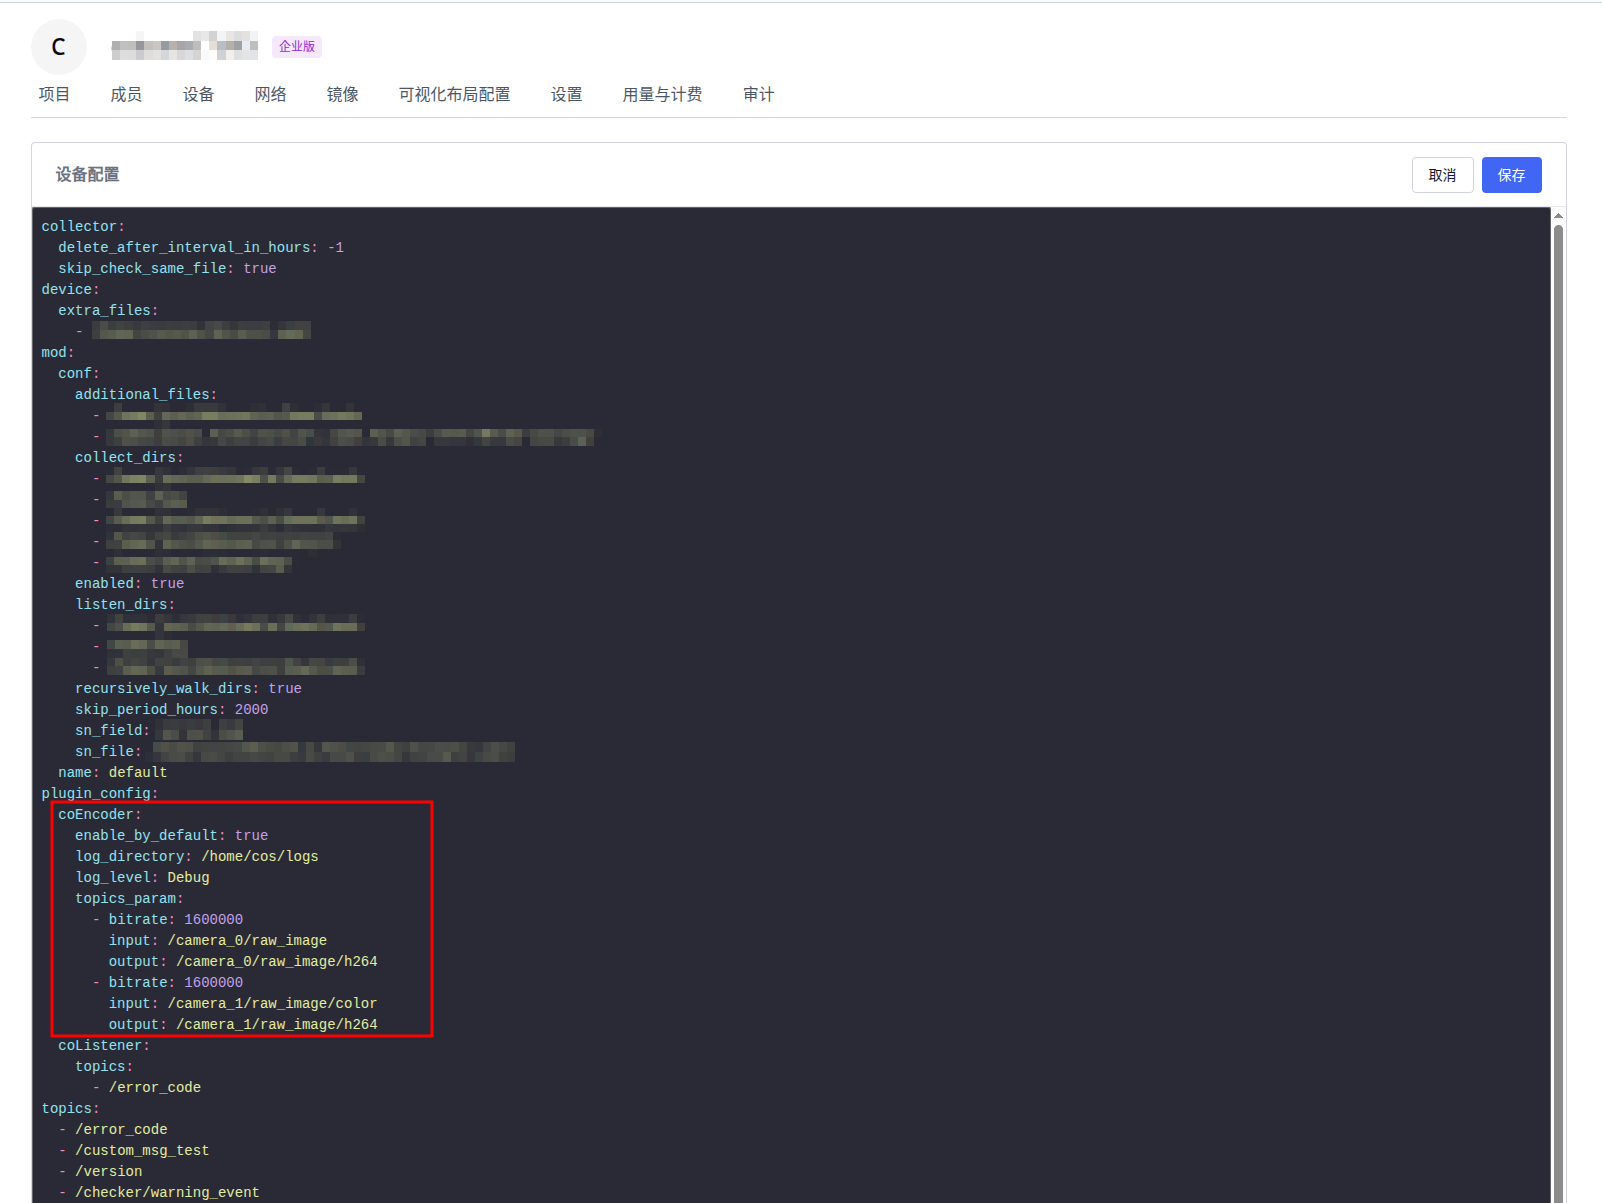
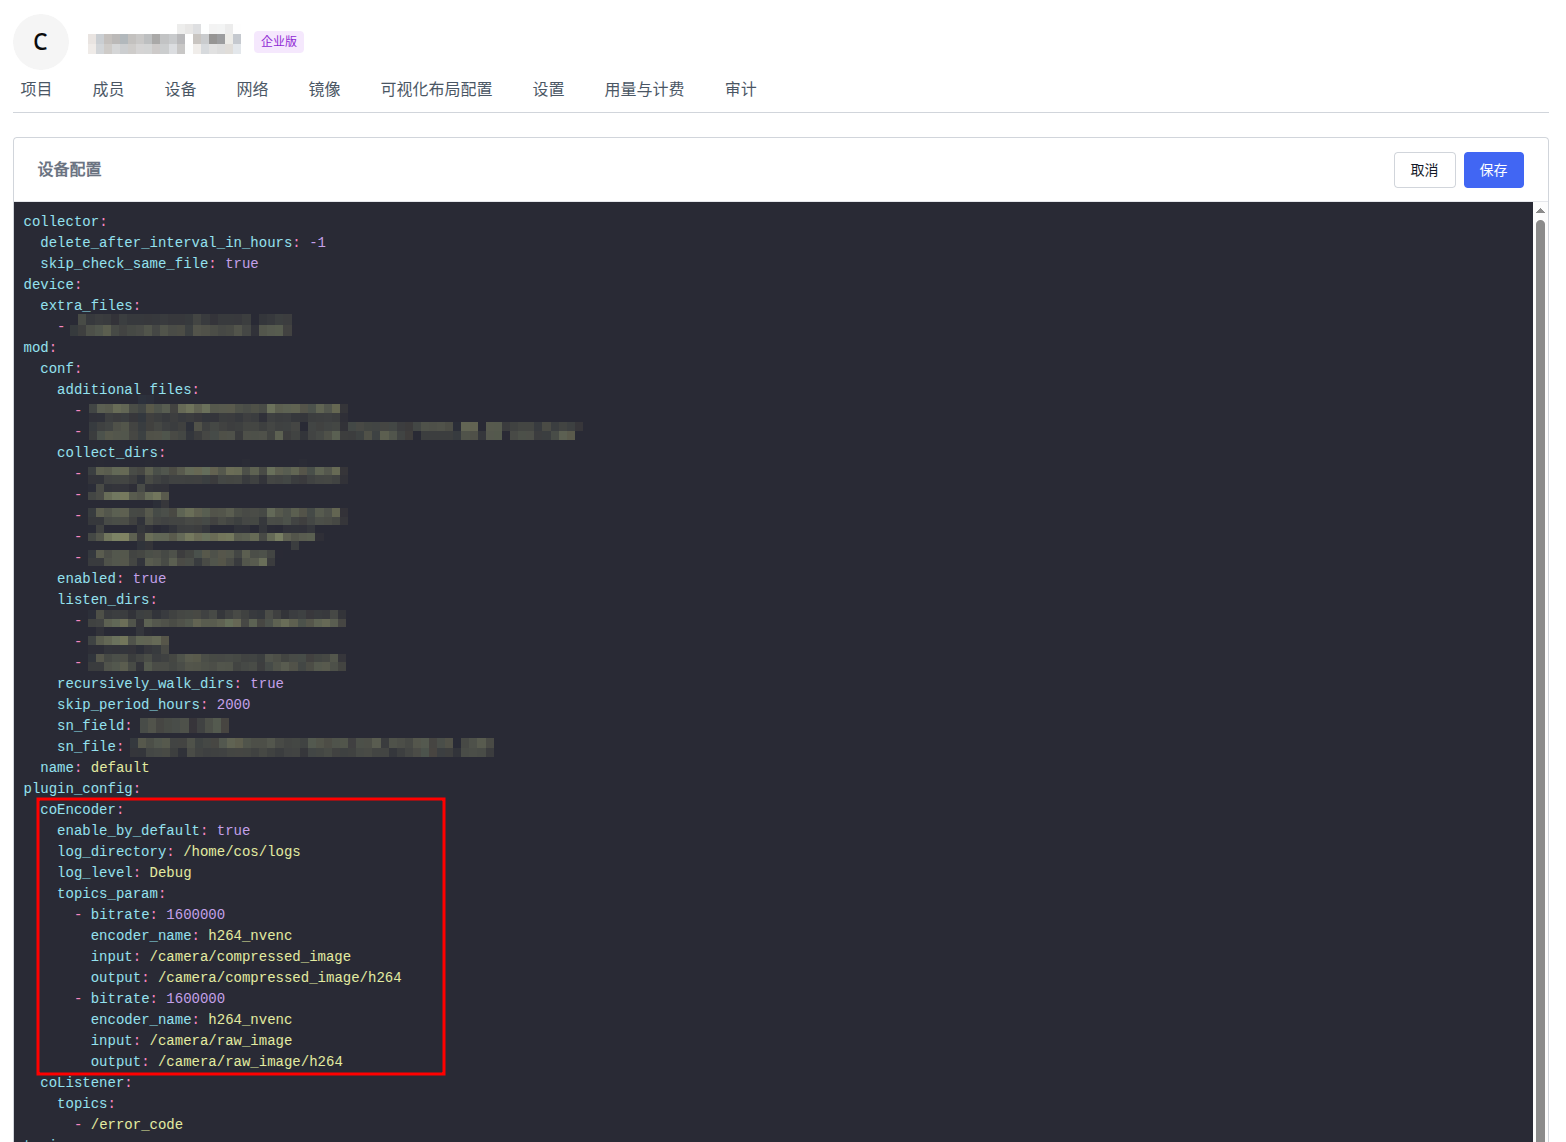
update README

Changed region(s): [[0.0, 0.0, 1.0, 1.0]]

diff --git a/README.md b/README.md
@@ -19,7 +19,7 @@ coencoder currently supports encoding using GPUs, currently supports the followi
 
 ## Configuration
 
-If the system environment variable contains `HOME`, the config file is located at `$HOME/.config/coencoder/config.json`, otherwise, the config file is located at `/tmp/coencoder/config/config.json`
+If the system environment variable contains `HOME`, the config file is located at `$HOME/.config/coencoder/config.json`, otherwise, the config file is located at `/tmp/coencoder/config/config.json`. If you start coEncoder using `rosrun` (or `ros2 run`), you can use --config-file to specify the config file path.
 
 ```Json
 {
@@ -47,7 +47,7 @@ If the system environment variable contains `HOME`, the config file is located a
 * **log_level**: Log level, possible values: Debug / Info / Warn / Error
 * **topics_param**: Array type, contains 3 fields
   * **bitrate**: Output bitrate
-  * **encoder_name**: encoder name, `h264_nvenc`, `h264_qsv`, `h264_amf`, `h264_vaapi` was supported, and also, you can use `libx264` to encode frames by CPU
+  * **encoder_name**: Encoder name, supports `h264_nvenc`, `h264_qsv`, `h264_amf`, `h264_vaapi`, and you can also use `libx264` to encode frames by CPU. If this field is missing in the configuration, `libx264` will be used for encoding
   * **input**: Input topic name
   * **output**: Output topic name
 
@@ -107,6 +107,8 @@ If the system environment variable contains `HOME`, the config file is located a
   source /opt/ros/{ros destro}/setup.bash
   
   roslaunch coencoder coencoder.launch
+  # You can also use `rosrun` to start the node
+  rosrun coencoder coencoder --config-file {your_config_file_path}
   ```
   
 - ROS2
@@ -117,4 +119,6 @@ If the system environment variable contains `HOME`, the config file is located a
   source /opt/ros/{ros destro}/setup.bash
   
   ros2 launch coencoder coencoder_launch.xml
+  # You can also use `ros2 run` to start the node  
+  ros2 run coencoder coencoder -- --config-file {your_config_file_path}
   ```

diff --git a/README_cn.md b/README_cn.md
@@ -19,7 +19,7 @@ coencoder目前支持使用GPU进行编码，目前支持以下编码器：
 
 ## 配置
 
-如果系统环境变量包含`HOME`，配置文件位于`$HOME/.config/coencoder/config.json`，否则配置文件位于`/tmp/coencoder/config/config.json`
+如果系统环境变量包含`HOME`，配置文件位于`$HOME/.config/coencoder/config.json`，否则配置文件位于`/tmp/coencoder/config/config.json`. 如果使用 `rosrun` (or `ros2 run`) 启动coEncoder, 可使用 --config-file 指定配置文件路径
 
 ```Json
 {
@@ -47,7 +47,7 @@ coencoder目前支持使用GPU进行编码，目前支持以下编码器：
 * **log_level:** 日志级别，可选值：Debug / Info / Warn / Error
 * **topics_param:** 数组类型，包含3个字段
   * **bitrate:** 输出码率
-  * **encoder_name:** 编码器名称，支持`h264_nvenc`、`h264_qsv`、`h264_amf`、`h264_vaapi`，同时也可以使用`libx264`通过CPU编码帧
+  * **encoder_name:** 编码器名称，支持`h264_nvenc`、`h264_qsv`、`h264_amf`、`h264_vaapi`，同时也可以使用`libx264`通过CPU编码帧. 如果配置中缺失该字段,则使用 `libx264` 进行编码
   * **input:** 输入topic名称
   * **output:** 输出topic名称
 
@@ -107,6 +107,8 @@ coencoder目前支持使用GPU进行编码，目前支持以下编码器：
   source /opt/ros/{ros destro}/setup.bash
   
   roslaunch coencoder coencoder.launch
+  # 也可使用 `rosrun` 启动节点
+  rosrun coencoder coencoder --config-file {your_config_file_path}
   ```
   
 - ROS2
@@ -117,4 +119,6 @@ coencoder目前支持使用GPU进行编码，目前支持以下编码器：
   source /opt/ros/{ros destro}/setup.bash
   
   ros2 launch coencoder coencoder_launch.xml
+  # 也可使用 `rosrun` 启动节点  
+  ros2 run coencoder coencoder -- --config-file {your_config_file_path}
   ``` 
